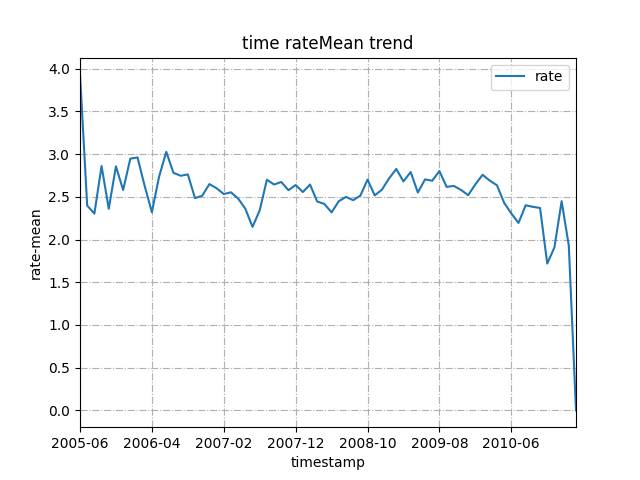
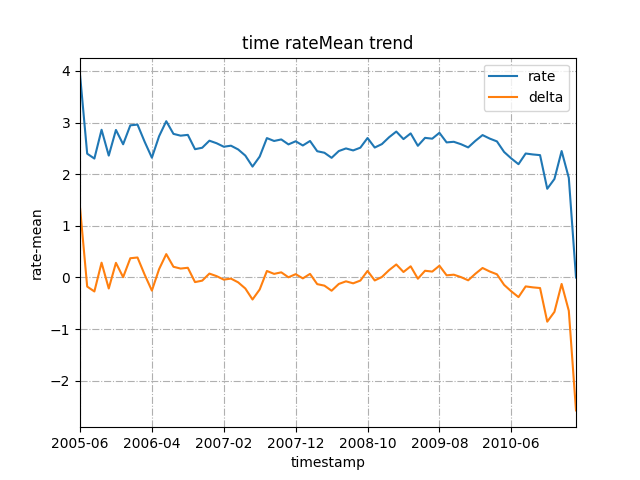
add timestamp

diff --git a/exp3/src/surprise_SVD.py b/exp3/src/surprise_SVD.py
@@ -15,8 +15,10 @@ import argparse
 if __name__ == "__main__":
     parser = argparse.ArgumentParser()
     parser.add_argument('--mode', type=str, default='run')
+    parser.add_argument('--time', type=bool, default=False, help="consider timestamp mean rating")
     opt = parser.parse_args()
     print(opt.mode)
+    print(opt.time)
     #direct read from file
     # reader = Reader(line_format='user item rating timestamp', sep=',')
     # data = Dataset.load_from_file("../dataset/training.dat", reader=reader)
@@ -48,30 +50,52 @@ if __name__ == "__main__":
     kf = KFold(n_splits=3)
     if opt.mode == 'grid':
         algo = SVD(reg_all=gs.best_params['rmse']['reg_all'], n_factors=gs.best_params['rmse']['n_factors'])
+    elif opt.mode == 'run':
+        algo = SVD(n_epochs=20, reg_all=0.08, verbose=True)
     else:
-        algo = SVD(n_epochs=20, reg_all=0.08,verbose=True)
-    print("begin fit and predict- KFold")
-    for trainset, testset in tqdm(kf.split(data)):
-        algo.fit(trainset)
-        predictions = algo.test(testset)
-        accuracy.rmse(predictions, verbose=True)
-    dump.dump("../output/SVDFunk.model",algo=algo)
+        pred, algo = dump.load("../output/SVDFunk.model")
+    
+    if opt.mode == 'test':
+        pass
+    else:
+        print("begin fit and predict- KFold")
+        for trainset, testset in tqdm(kf.split(data)):
+            algo.fit(trainset)
+            predictions = algo.test(testset)
+            accuracy.rmse(predictions, verbose=True)
+        dump.dump("../output/SVDFunk.model",algo=algo)
 
     # # trashy
     # trainset = data.build_full_trainset()
     # algo.fit(trainset)
 
 
-    testData = pd.read_csv("../dataset/testing.dat", sep=',', usecols=[0, 1], header=None, names=['user', 'item'])
+    testData = pd.read_csv("../dataset/testing.dat", sep=',', usecols=[0, 1, 2], header=None, names=['user', 'item', 'time'])
     print(testData)
 
     fp = open("../output/result.txt", "w")
 
+    results = []
+    if opt.time==False:
+        for index, row in tqdm(testData.iterrows()):
+            result = algo.predict(row['user'], row['item'])
+            results.append(result[3])
+    else:
+        timeRatingDeltaMean = pd.read_csv("../dataset/training_mean.dat",index_col='timestamp')
+        print(timeRatingDeltaMean)
+        for index, row in tqdm(testData.iterrows()):
+            result = algo.predict(row['user'], row['item'])
+            try:
+                delta = timeRatingDeltaMean['delta'][row['time']]
+            except KeyError:
+                delta = 0
+            results.append(result[3] + delta)
 
-    for index, row in tqdm(testData.iterrows()):
-        result = algo.predict(row['user'], row['item'])
-        fp.write(str(round(result[3])))
-        # fp.write(str(random.randint(0,5)))
-        fp.write('\n')
+    resultDf = pd.DataFrame(results, columns=['rating'])
+    if opt.time == True:
+        resultDf['rating'] = resultDf['rating'].apply(lambda x:5 if x>5 else x)
+        resultDf['rating'] = resultDf['rating'].apply(lambda x:0 if x<0 else x)
+    resultDf['rating'] = resultDf['rating'].apply(lambda x: round(x))
+    resultDf.to_csv("../output/result.csv", header=None, index = False)
 
     fp.close()

diff --git a/exp3/src/plot_data.py b/exp3/src/plot_data.py
@@ -19,7 +19,8 @@ from tqdm import tqdm
 trainData = pd.read_csv("../dataset/training.dat", sep=',', usecols=[0, 1, 2, 3], header=None, names=['user_id', 'mov_id', 'rate', 'timestamp'])
 testData = pd.read_csv("../dataset/testing.dat", sep=',',usecols=[0,1], header=None, names= ['user_id', 'mov_id'])
 
-print(trainData['rate'].mean())
+ratingMean = trainData['rate'].mean()
+print(ratingMean)
 # print("begin plot rating-cnt fig")
 # rate = [0, 1, 2, 3, 4, 5]
 # # rateCnt = trainData['rate'].value_counts()
@@ -69,6 +70,7 @@ print("begin plot time trend")
 timeRatingDf = pd.DataFrame(data=trainData[['timestamp','rate']])
 
 timeRatingMeanDf = timeRatingDf.groupby('timestamp').agg('mean')
+timeRatingMeanDf['delta']=timeRatingMeanDf['rate'].apply(lambda x: x-ratingMean)
 timeRatingMeanDf.to_csv('../dataset/training_mean.dat')
 
 timeRatingMeanDf.plot(label="time rate trend")

diff --git a/exp3/README.md b/exp3/README.md
@@ -22,4 +22,5 @@
   - {'n_epochs': 20, 'lr_all': 0.005, 'reg_all': 0.06}
   - 1.2161151806697987
     - {'n_epochs': 20, 'reg_all': 0.08}
+- [x] consider timestamp(8)
 
